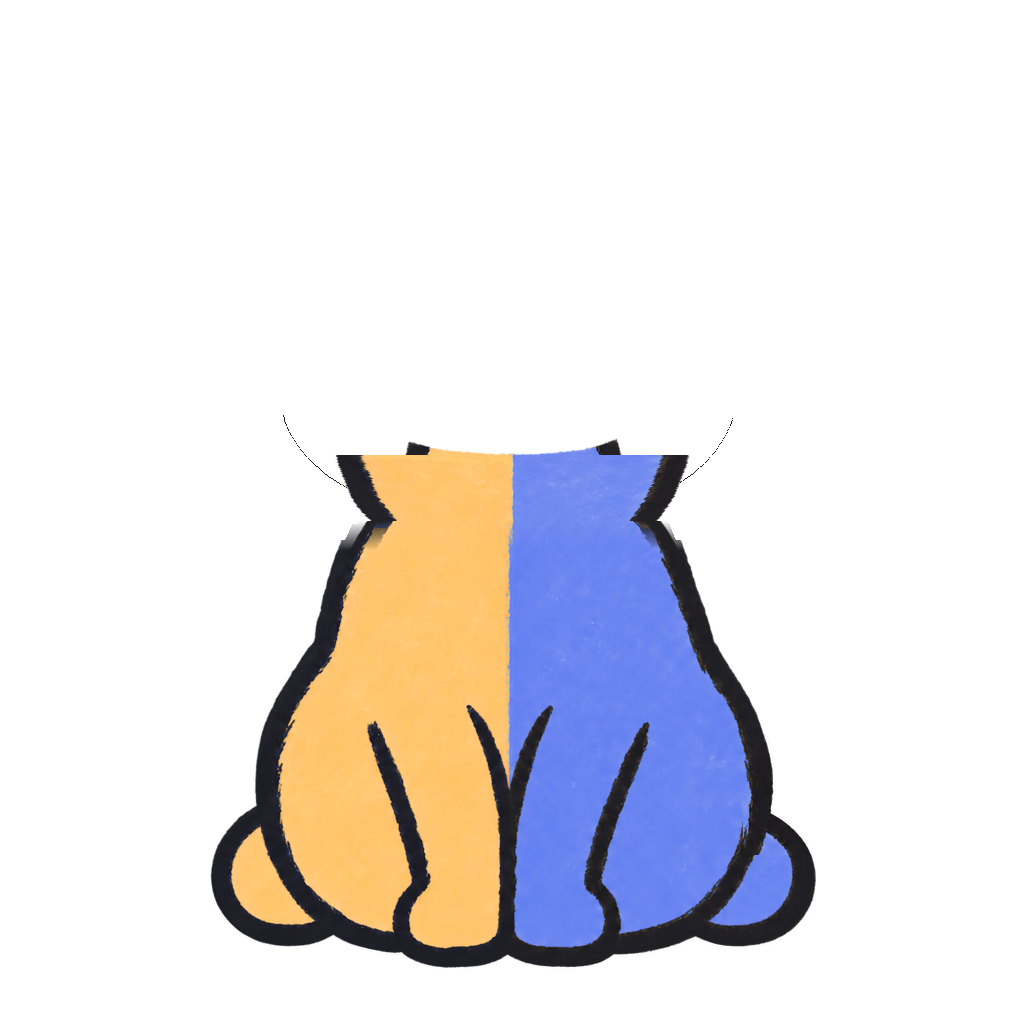
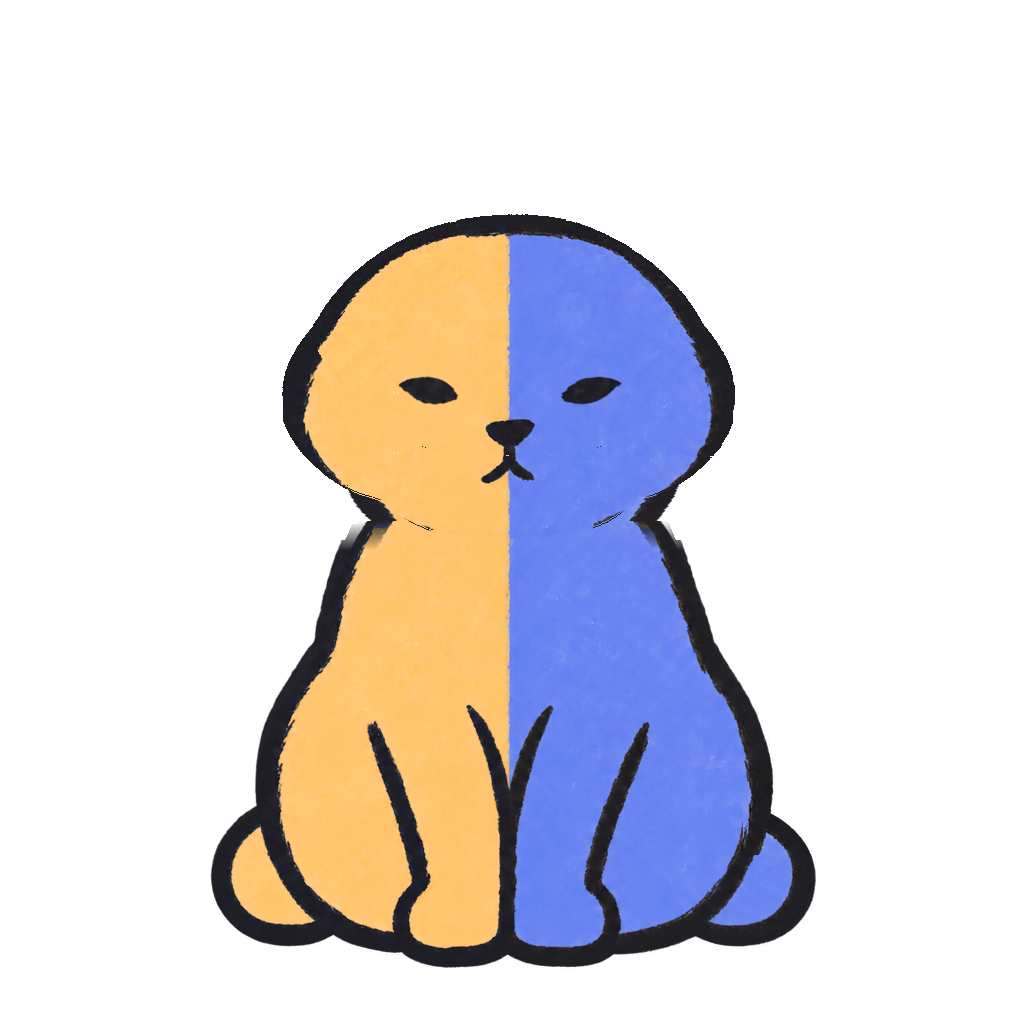
fix(pet): back the head with solid body colour; scan every shipped size (#144)
* fix(pet): fill the last two cheek-corner pixels

A stricter rescan (alpha < 200) of the composite found two mostly
transparent pixels enclosed at the cheek corners. Filled on the body layer
with the nearest solid colour; runtime copies and the reference image
regenerated. Brush-grain translucency elsewhere is left as drawn.

Claude-Session: https://claude.ai/code/session_012EzchSAnQHcjqHSd5QfHXD

* fix(pet): back the head with solid body colour; scan every shipped size

Review of #144: pixel fills at 1024 don't survive scaling and the rounded
head drop -- @3x still had 33 trapped see-through pixels along the cheeks.
The body layer is now opaque under the head's footprint for drops 22-26,
painted with the colour the head shows, so rounding always lands on solid
colour. Only the head is backed; the ears rotate and a static copy would
peek out. Adds scripts/check_cat_layers.py, which stacks the layers as
SharedPet does at 1024 and @1x/@2x/@3x with their rounded drops and fails
on any trapped hole: 0 at every size. CLAUDE.md and the testing log
corrected.

Claude-Session: https://claude.ai/code/session_012EzchSAnQHcjqHSd5QfHXD

---------

Changed region(s): [[0.25, 0.1875, 0.7188, 0.5312]]

diff --git a/scripts/check_cat_layers.py b/scripts/check_cat_layers.py
@@ -1,0 +1,76 @@
+"""Scan the layered cat for see-through pixels trapped inside its outline.
+
+Stacks the layers exactly as src/components/SharedPet.tsx does -- head, ears
+and eyes lowered by 24/1024 of the canvas, rounded to a device pixel -- at
+the sizes the app ships (@1x/@2x/@3x runtime files) and at the 1024 source,
+then flood-fills from outside. Anything below ALPHA that the fill can't
+reach is a hole the Home background would show through.
+
+    python3 scripts/check_cat_layers.py        # needs Pillow
+
+Exits non-zero if any hole is found. Checking only the 1024 source is not
+enough: shrinking blends edges and the rounded drop shifts the head's
+outline relative to the body's, which is how @3x kept holes the source
+didn't have.
+"""
+import sys
+from collections import deque
+from pathlib import Path
+
+from PIL import Image
+
+CAT = Path(__file__).resolve().parent.parent / 'assets' / 'cat'
+ALPHA = 200
+HEAD_GROUP = ['ear-left', 'ear-right', 'head', 'eyes-open']
+
+
+def composite(files, drop):
+    base = Image.open(files('tail')).convert('RGBA')
+    out = Image.new('RGBA', base.size, (0, 0, 0, 0))
+    out.alpha_composite(base)
+    out.alpha_composite(Image.open(files('body')).convert('RGBA'))
+    for name in HEAD_GROUP:
+        out.alpha_composite(Image.open(files(name)).convert('RGBA'), (0, drop))
+    return out
+
+
+def trapped(img):
+    w, h = img.size
+    a = img.getchannel('A').load()
+    seen = bytearray(w * h)
+    q = deque()
+    for x in range(w):
+        q.extend([(x, 0), (x, h - 1)])
+    for y in range(h):
+        q.extend([(0, y), (w - 1, y)])
+    while q:
+        x, y = q.popleft()
+        if not (0 <= x < w and 0 <= y < h):
+            continue
+        i = y * w + x
+        if seen[i] or a[x, y] >= ALPHA:
+            continue
+        seen[i] = 1
+        q.extend([(x - 1, y), (x + 1, y), (x, y - 1), (x, y + 1)])
+    return [(x, y) for y in range(h) for x in range(w)
+            if a[x, y] < ALPHA and not seen[y * w + x]]
+
+
+def main():
+    bad = 0
+    checks = [('source 1024', lambda n: CAT / f'cat-{n}.png', 24)]
+    # SharedPet renders at up to 260pt: drop = round(260*24/1024) pt, in px.
+    for suffix, scale in [('', 1), ('@2x', 2), ('@3x', 3)]:
+        drop = round(260 * 24 / 1024) * scale
+        checks.append((f'runtime{suffix or "@1x"}',
+                       lambda n, s=suffix: CAT / 'runtime' / f'cat-{n}{s}.png',
+                       drop))
+    for label, files, drop in checks:
+        holes = trapped(composite(files, drop))
+        bad += len(holes)
+        print(f'{label:14} drop={drop:3}px  trapped<{ALPHA}: {len(holes)}')
+    sys.exit(1 if bad else 0)
+
+
+if __name__ == '__main__':
+    main()

diff --git a/CLAUDE.md b/CLAUDE.md
@@ -540,10 +540,17 @@ to a device pixel; in `SharedPet`'s pivots) lower than the art, set in code
 rather than by moving pixels, and `cat-assembled-reference.png` is composited
 with that drop; the body's neck
 reaches up behind the head with its outline wrapped around the cheeks, so
-the drop hides the neck seam instead of opening a gap (2026-09-25). 126
-see-through pinhole pixels along the inside of the cheek outlines were then
-filled on the body layer with the nearest solid colour, found by a flood
-fill of the composite from outside. Every layer
+the drop hides the neck seam instead of opening a gap (2026-09-25). Pixel
+patches at 1024 didn't hold: the app scales the art and rounds the drop
+(18px at @3x is 23.6 source px, not 24), so @3x kept see-through pinholes
+along the cheek outlines that the source didn't have. The body layer is now
+**opaque under the head's footprint** (for drops 22–26), painted with the
+colour the head shows there, so any rounding lands on solid colour. Only the
+head is backed, not the ears — they rotate, and a static copy would peek out
+mid-twitch. `python3 scripts/check_cat_layers.py` (needs Pillow) stacks the
+layers exactly as `SharedPet` does at 1024 and at the shipped @1x/@2x/@3x
+with their rounded drops, flood-fills from outside, and exits non-zero on
+any trapped see-through pixel: run it after any cat art change. Every layer
 shares one square coordinate system, so it must stay absolute-fill and must
 not be independently cropped or positioned — except as a group: head, ears
 and eyes move together by `headDrop` (below), and layers inside a group move

diff --git a/docs/testing-log.md b/docs/testing-log.md
@@ -2338,3 +2338,15 @@ Code review then found 126 enclosed see-through pixels along the inside of
 the cheek outlines (flood fill of the composite from outside); they were
 filled on the body layer with the nearest solid colour, re-checked at 0
 remaining, and the reference image was regenerated with the head drop.
+
+**Follow-up:** a rescan of the composite at stricter thresholds found 0
+fully transparent enclosed pixels, 2 mostly transparent (alpha < 200) at the
+cheek corners, and ~290 slightly translucent ones spread across the cat,
+which are brush grain rather than gaps. The 2 were filled the same way;
+0 remain at alpha < 200. **Correction, from code review:** that was only checked at
+the 1024 source. At @3x the rounded drop (18px = 23.6 source px) still left
+33 trapped see-through pixels along both cheeks. Fixed structurally instead:
+the body is opaque under the head's footprint (drops 22–26, head only, not
+the rotating ears), coloured as the head shows it. `scripts/check_cat_layers.py`
+now scans source + @1x/@2x/@3x with rounded drops: 0 at every size. At rest
+138 pixels visibly change (the former gaps); with ears twitched 9°, 6 more.
